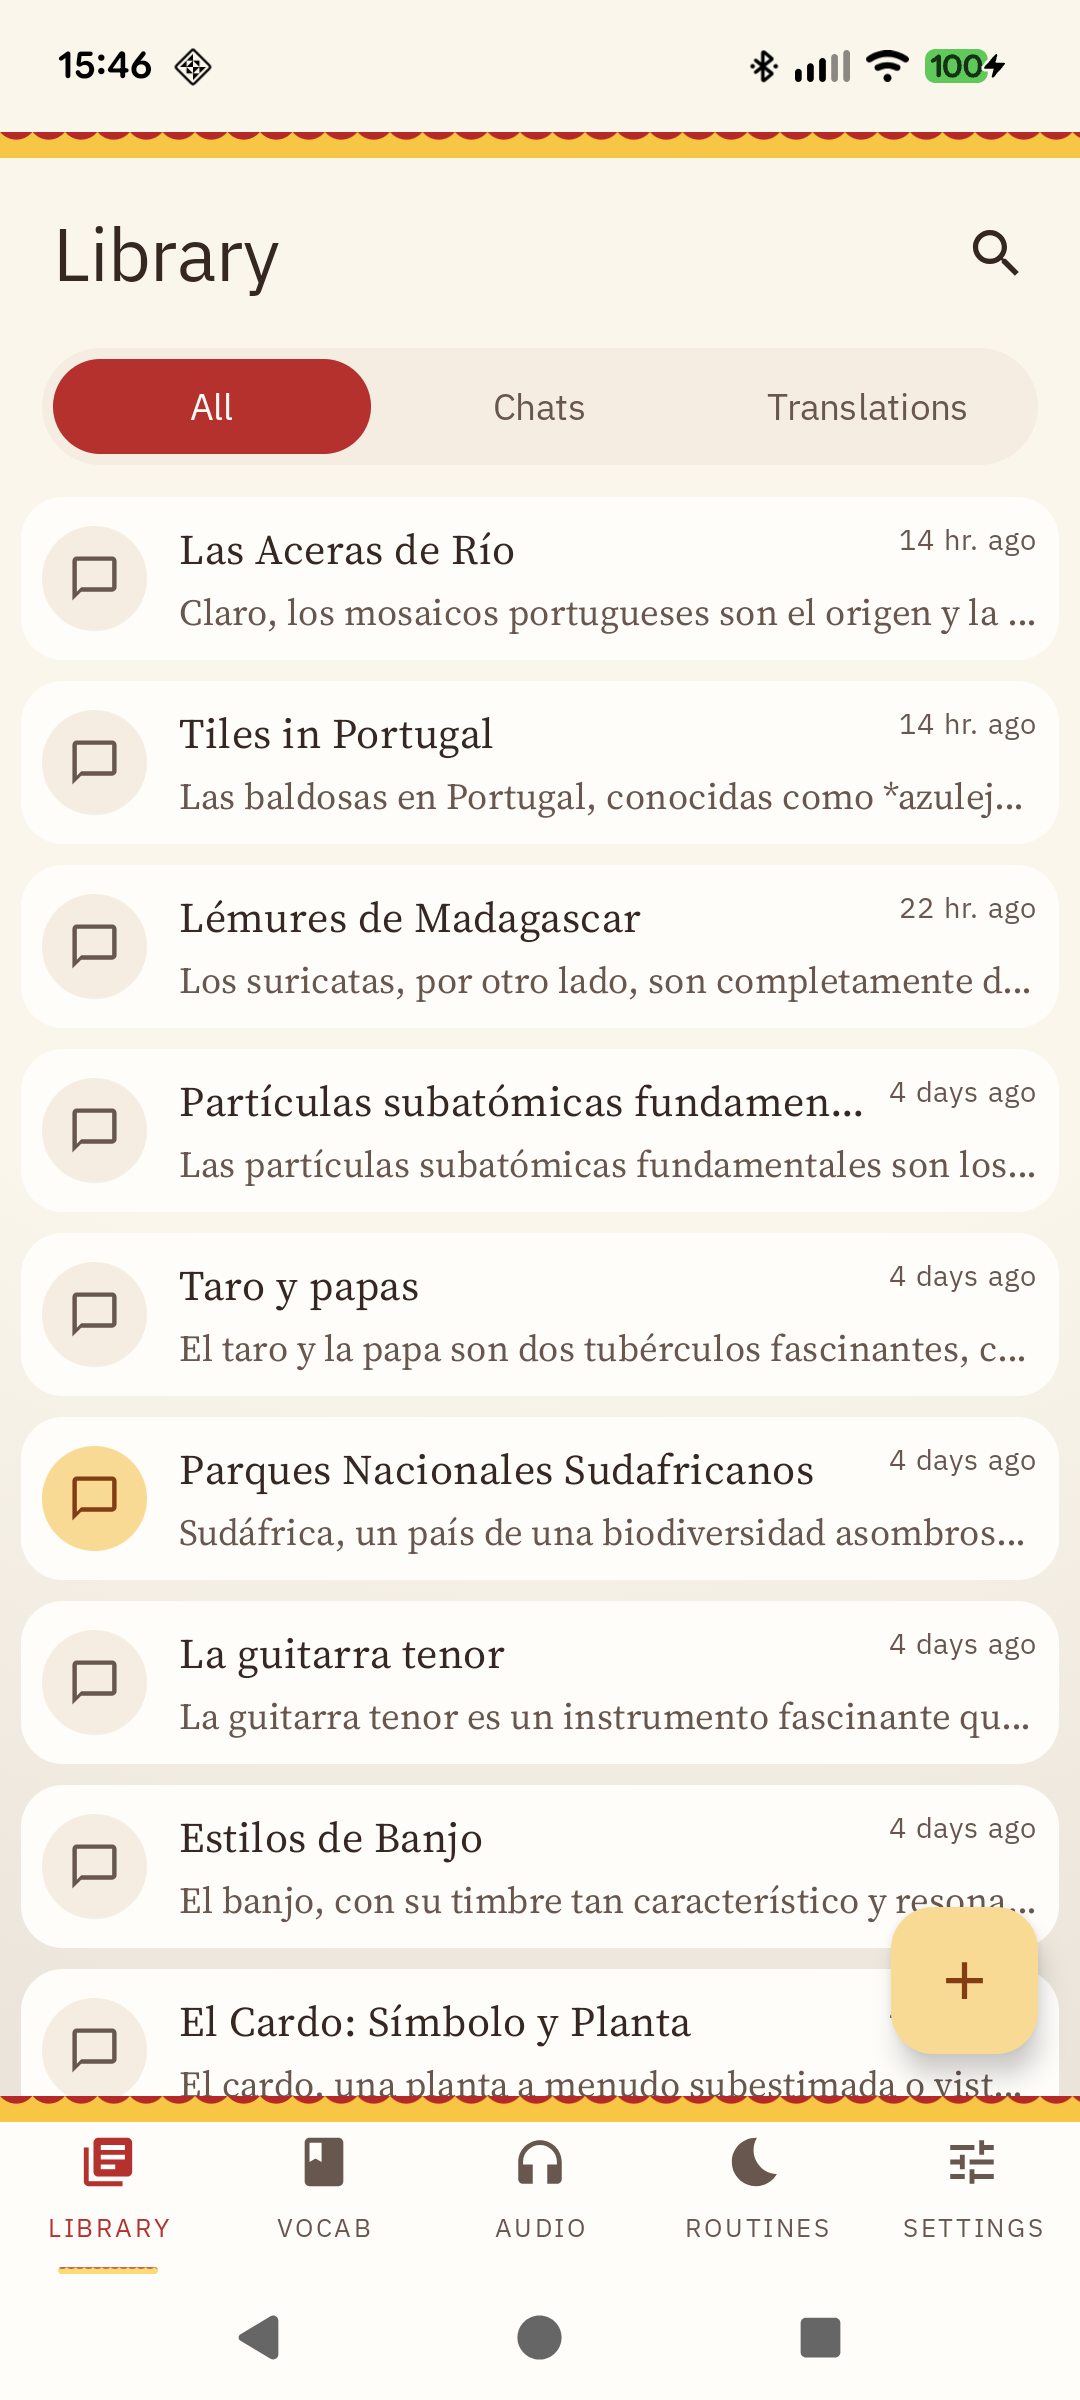
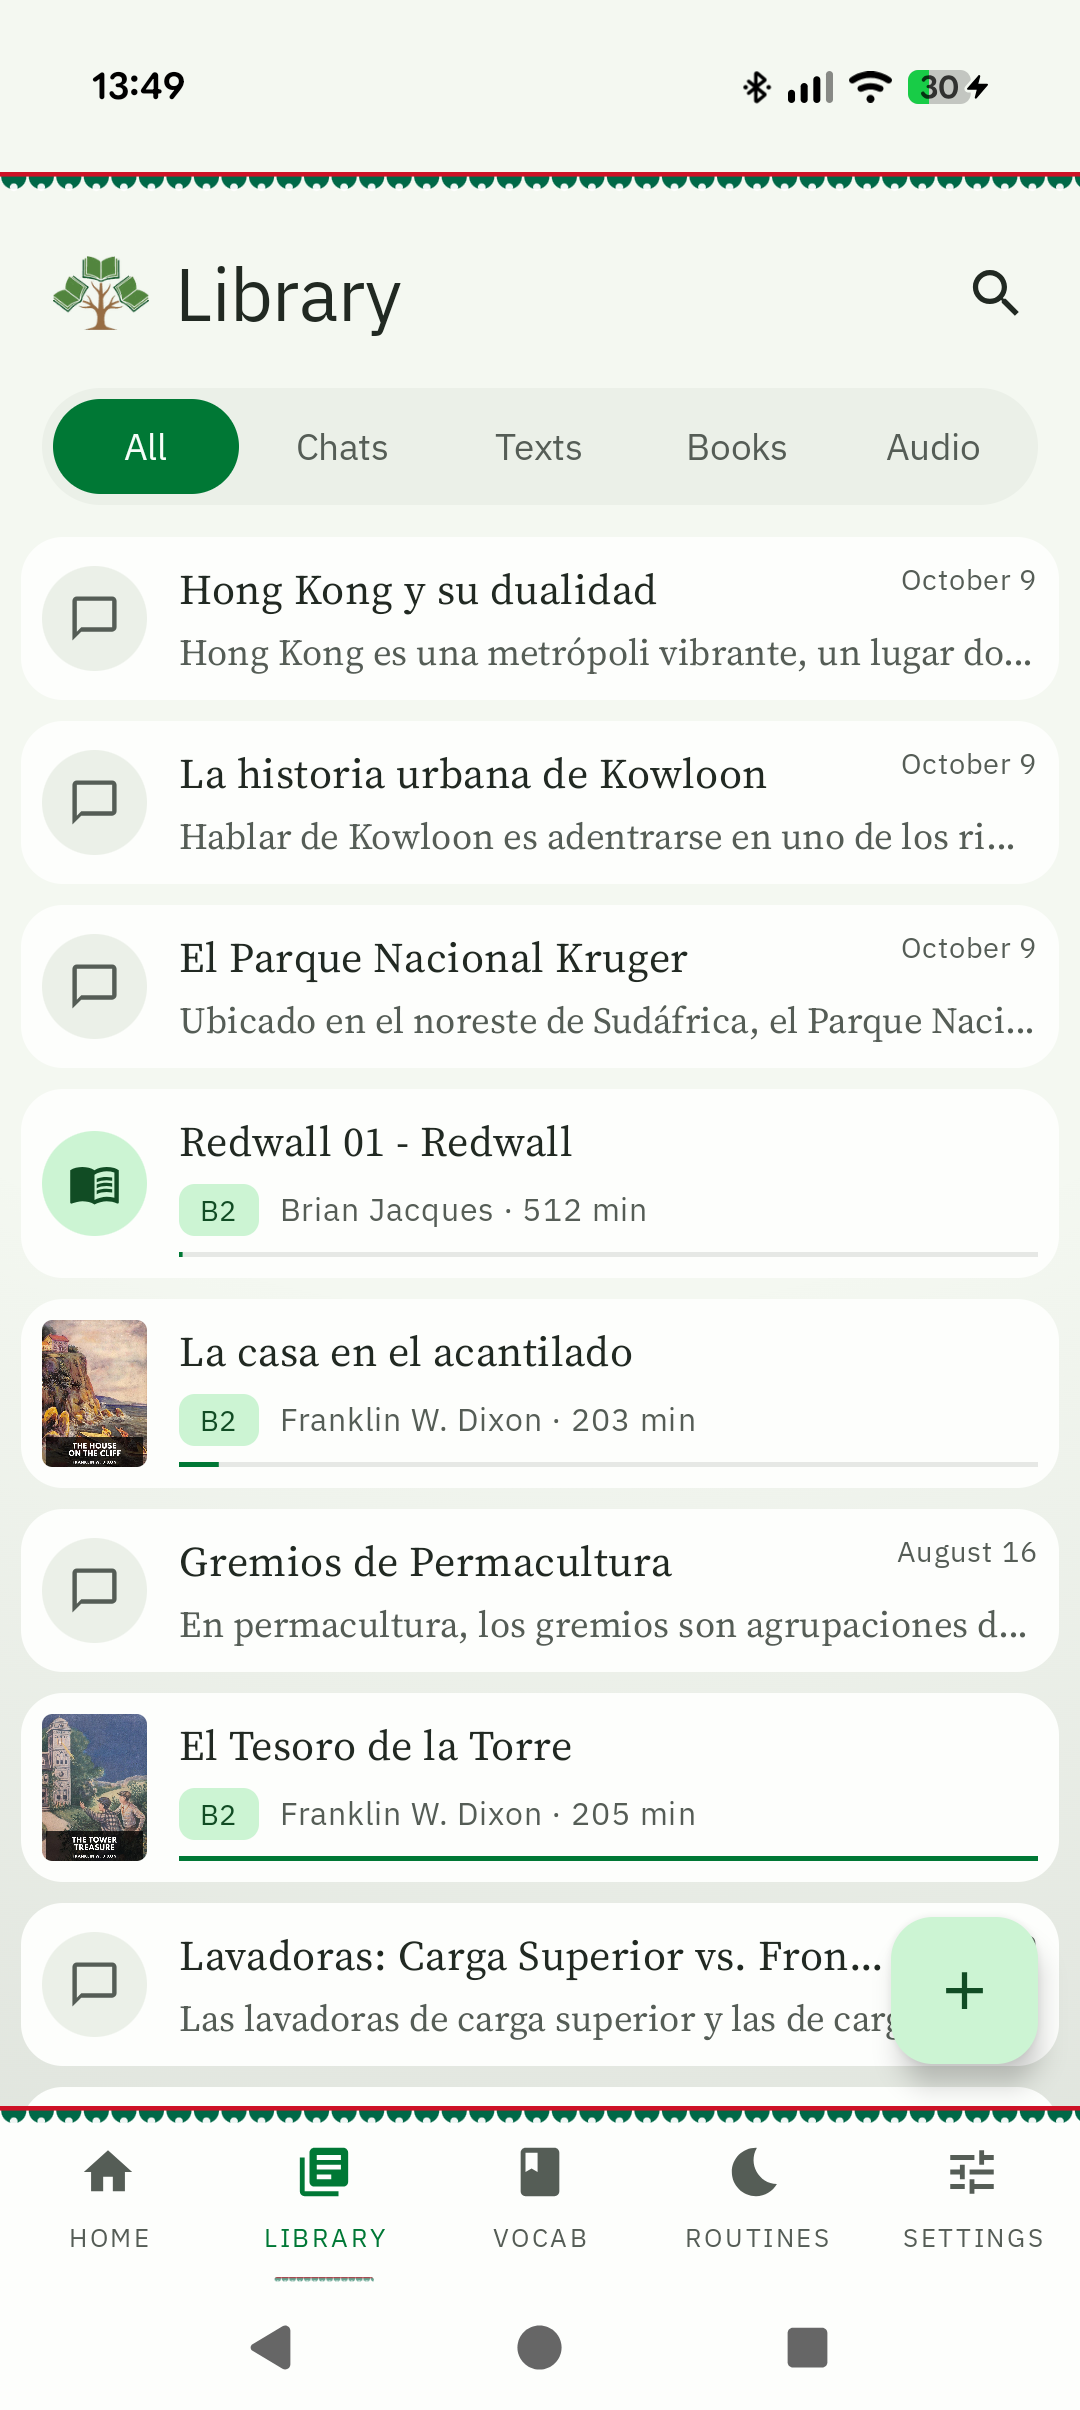
README: new intro, fixed-size screenshot grid, fresh screenshots
Nine screenshots in an HTML table so they render at one width, taken
across several themes. Adds Home, Library, Word detail, Parallel texts
and Grammar courses; drops the old conversation-list and audio shots.

diff --git a/README.md b/README.md
@@ -6,19 +6,37 @@
   </picture>
 </p>
 <h1 align="center">Copiosa</h1>
-<p align="center"><em>Spanish for "abundant." Bring one API key; everything else is included.</em></p>
+<p align="center"><em>Spanish for "abundant." Read any long-form text, translated at your level of understnaidng, standard LLM API keys.</em></p>
 
-Copiosa is an Android app for learning a language as an adult.
+Copiosa is an Android app for learning a language as an adult. The main premise is that effective, idiomatic translation is easily accessible via LLMs, and that reading text is a great way to learn languages.
 
-You chat with an AI tutor in the language you're learning. You paste in an article, or import an
-EPUB, and read it with a translation beside it. Tap any word you don't know and it tells you what it
-means — tap again and it becomes a flashcard. Those flashcards come back on a proper
-spaced-repetition schedule. When you'd rather be taught than immersed, short grammar courses start
-from zero. At night, the app builds you a short wind-down routine out of whatever you've been
-studying.
+The main loop is to paste in an article from a website, import an EPUB, or simply state a topic in your native or target language, and get a translation. It uses either Google's free AI Studio API keys, or OpenRouter. Translating an entire epub is about $1 on OpenRouter with good-quality but cheap models, and you can export your translation for your own ereader. You can also slowly trickle in the translation with Google's API key, which has a free quota. A conversation about any topic of your choosing is a fraction of a cent.
+
+Since the main focus is on long-form text, the app is build around that, with features like quickly flipping back and forth between languages or viewing the languages interspered with one another.
+
+The app also includes a spaced-repetition flashcard system that integrates with the text (highlighting vocabulary from your deck in the text, requesting specific terms in the translation, and allowing easy export of any term from your text to a new card).
+
+Likewise, there are two local LLMs that have been integrated, which run free. The first is an offline dictionary plus an on-device translator, which handles small-scale tasks, but which isn't as effective as a larger model for full idiomatic translation. This works better than a static dictionary.
+
+The other local LLM is a text-to-speech system that sounds very natural. You can use this to get an audio version of any text. So, you can listen to the translated article, book, or conversation read to you.
 
 You bring one API key. There's no account, no subscription, and no server: your vocabulary, your
-reading, and your progress live on your phone.
+reading, and your progress live on your phone, and you can export from this app into a standard file for use elsewhere.
+
+I've tested this with Spanish and Portuguese, but it's designed for any language and most common languages understood by Gemini, DeepSeek, and TTS models should work fine.
+
+Under development, and need some work: courses and clozes.
+
+## Screenshots
+
+<table>
+  <tr><th>Home</th><th>Reading a book</th><th>Tap-to-define</th></tr>
+  <tr><td><img src="screenshots/home.png" alt="Home" width="260"></td><td><img src="screenshots/reading.png" alt="Reading a book" width="260"></td><td><img src="screenshots/tap_to_define.png" alt="Tap-to-define" width="260"></td></tr>
+  <tr><th>Library</th><th>Vocab list</th><th>Word detail</th></tr>
+  <tr><td><img src="screenshots/library.png" alt="Library" width="260"></td><td><img src="screenshots/vocab_list.png" alt="Vocab list" width="260"></td><td><img src="screenshots/word_detail.png" alt="Word detail" width="260"></td></tr>
+  <tr><th>Parallel texts</th><th>Grammar courses</th><th>Routines</th></tr>
+  <tr><td><img src="screenshots/parallel_texts.png" alt="Parallel texts" width="260"></td><td><img src="screenshots/courses.png" alt="Grammar courses" width="260"></td><td><img src="screenshots/routines.png" alt="Routines" width="260"></td></tr>
+</table>
 
 ## What it does
 
@@ -35,8 +53,9 @@ reading, and your progress live on your phone.
   as an EPUB, either a clean copy in the language you're learning or a bilingual one with each
   paragraph followed by its translation.
 - **Tap to define.** Tap a word or drag across a phrase for an instant definition and translation,
-  from a fully offline dictionary and on-device translation. One more tap saves it as a flashcard —
-  and words you've saved stay highlighted everywhere you read.
+  from a fully offline dictionary and on-device translation. A speaker button says it aloud on the
+  spot, and the same button sits on review cards and chat replies. One more tap saves it as a
+  flashcard, and words you've saved stay highlighted everywhere you read.
 - **Vocabulary.** A real FSRS scheduler with cloze cards, images, audio, and one-tap undo. Every
   word is learned in both directions, recognising it and producing it, each on its own schedule.
   Anki `.apkg` decks move in and out losslessly, review history included, and a plain JSON export
@@ -71,18 +90,8 @@ reading, and your progress live on your phone.
   arc and tuned to what you're weakest at. A daytime routine runs the arc the other way, warming up
   gently and finishing sharp.
 - **Home and progress.** What's due, a daily goal, time spent, accuracy, and streaks.
-- **A look you'll want to open.** Country palettes, persona skins, dark mode, adjustable reading
+- **Beautiful style.** Country palettes, persona skins, dark mode, adjustable reading
   fonts — and per-language profiles that keep settings, decks, playlists and progress separate.
-
-## Screenshots
-
-| Conversations                             | Tap-to-define                                    | Vocabulary                                |
-| ----------------------------------------- | ------------------------------------------------ | ----------------------------------------- |
-| ![Conversations](screenshots/library.png) | ![Tap-to-define](screenshots/tap_to_define.png)  | ![Vocabulary](screenshots/vocabulary.png) |
-
-| Reading                             | Audio playlist                                | Routines                            |
-| ----------------------------------- | --------------------------------------------- | ----------------------------------- |
-| ![Reading](screenshots/reading.png) | ![Audio playlist](screenshots/audio_playlist.png) | ![Routines](screenshots/routines.png) |
 
 ## Getting started
 
